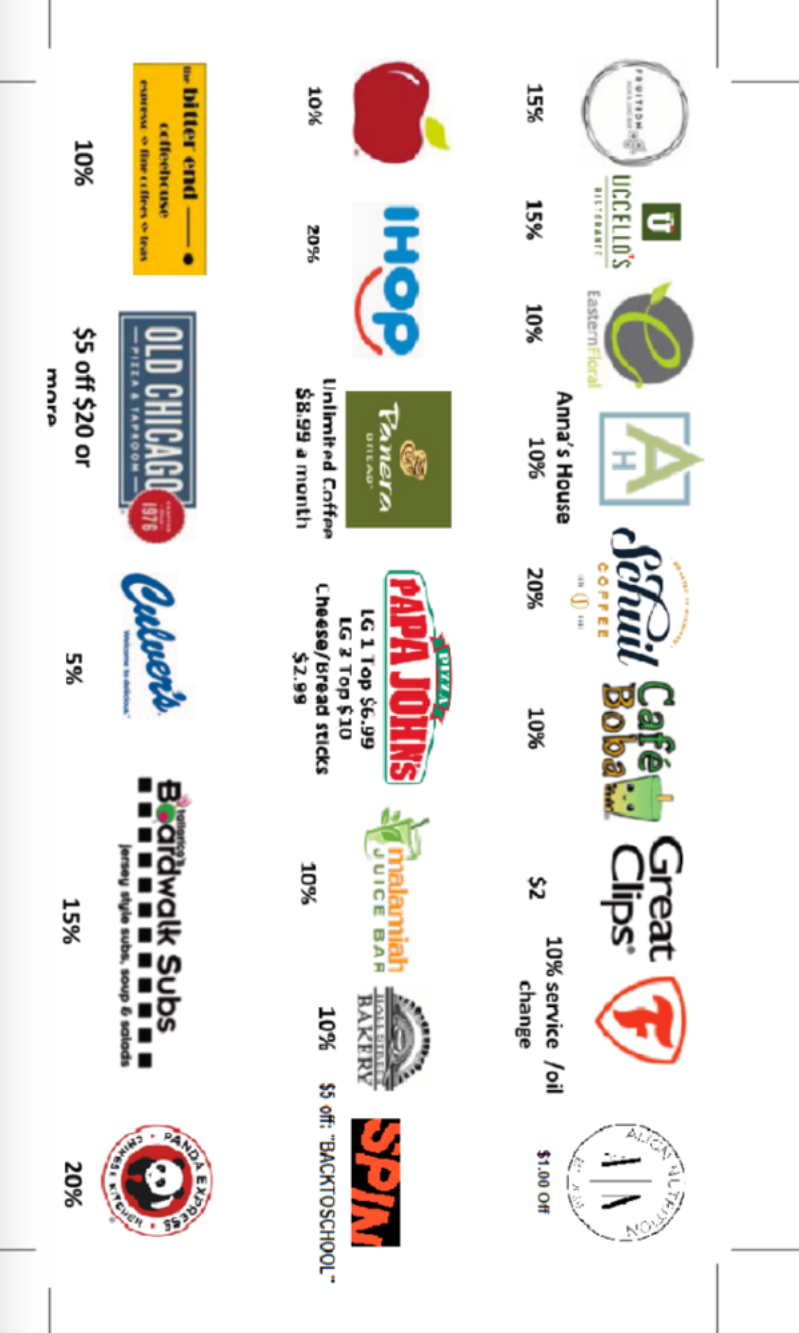
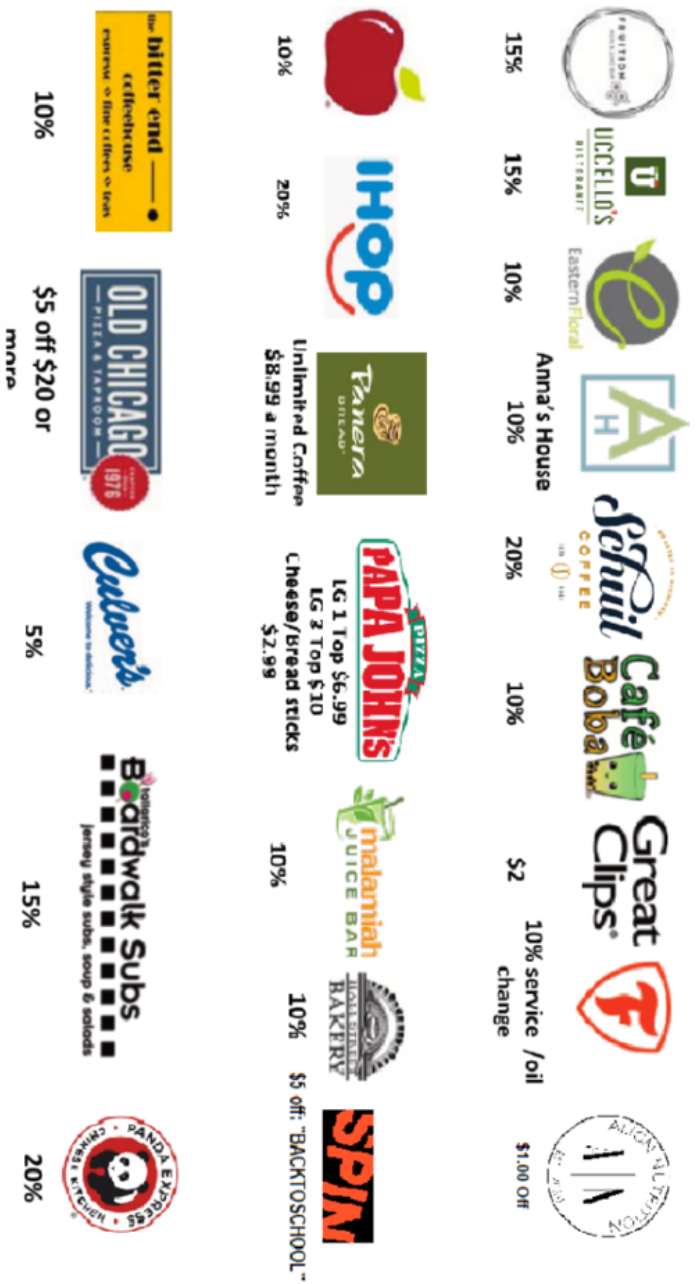
added discount card in profile tab

diff --git a/styles/post.js b/styles/post.js
@@ -2,9 +2,9 @@ import { StyleSheet } from 'react-native';
 
 export const postStyles = StyleSheet.create({
     item: {
-		backgroundColor: '#FFF',
+		backgroundColor: '#ffe226',
 		padding: 15,
-		borderRadius: 10,
+		borderRadius: 8,
 		flexDirection: 'row',
 		justifyContent: 'space-between',
 		marginBottom: 20,
@@ -19,12 +19,13 @@ export const postStyles = StyleSheet.create({
 	square: {
 		width: 24,
 		height: 24,
-		backgroundColor: '#F3CD00',
+		backgroundColor: 'blue',
 		opacity: 0.4,
 		borderRadius: 5,
 		marginRight: 5,
 	},
 	itemText: {
+		fontSize: 18,
 		paddingLeft: 20,
 		maxWidth: '80%',
 	},

diff --git a/App.js b/App.js
@@ -26,7 +26,7 @@ Home: {
         <Ionicons
           name="md-home"
           size={24}
-          color={tabInfo.focused ? "#006600" : "#8e8e93"}
+          color={tabInfo.focused ? "#33adff" : "#8e8e93"}
         />
       );
     },
@@ -42,9 +42,9 @@ Profile: {
     tabBarIcon: (tabInfo) => {
       return (
         <Ionicons
-          name="md-help-circle-outline"
+          name="md-person-circle-outline"
           size={24}
-          color={tabInfo.focused ? "#006600" : "#8e8e93"}
+          color={tabInfo.focused ? "#33adff" : "#8e8e93"}
         />
       );
     },

diff --git a/screens/profile.js b/screens/profile.js
@@ -1,13 +1,13 @@
 import React from 'react';
 import { View, Image } from 'react-native';
-import { globalStyles } from '../styles/global';
+import { profileStyles } from '../styles/profile';
 import discountCoupon from '../assets/coupon.png';
 
 export default function ProfileScreen ({navigation}){
   // Shows discount coupon
   return(
-    <View>
-        <Image source={discountCoupon} style={{width:200, height:400}}/>
+    <View style={profileStyles.discountCard}>
+        <Image source={discountCoupon} style={{width:300, height:560}}/>
     </View>
   );
 }

diff --git a/styles/global.js b/styles/global.js
@@ -63,7 +63,7 @@ export const globalStyles = StyleSheet.create({
     writePostWrapper: {
       position: 'absolute',
       paddingHorizontal: 10,
-      bottom: 40,
+      bottom: 25,
       width: '100%',
       flexDirection: 'row',
       justifyContent: 'space-between',

diff --git a/styles/profile.js b/styles/profile.js
@@ -1,0 +1,9 @@
+import { StyleSheet } from 'react-native';
+
+export const profileStyles = StyleSheet.create({
+    discountCard: {
+        justifyContent:'center', 
+        alignItems:'center', 
+        flex:1
+    }
+});
